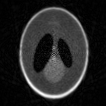
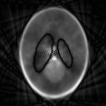
Ready for server experiments

diff --git a/scripts/MAP2D_simple.m b/scripts/MAP2D_simple.m
@@ -9,16 +9,16 @@ P = imresize(P, 0.5);
 P = padarray(P, [3, 3], 0.0);
 
 % Constants.
-sigmaNoiseFraction = 0.05;
+sigmaNoiseFraction = 0.00;
 max_shift_amplitude = 0;
 filename = ...
-    '../results/bayesian_estimation/error_angles_and_shifts/server/5_percent_noise/';
+    '../results/bayesian_estimation/error_angles_and_shifts/local/5_percent_noise/';
 num_theta = 360;
-max_angle_err = 5;
-max_shift_err = 5;
+max_angle_err = 3;
+max_shift_err = 0;
 resolution_angle = 1;
 resolution_space = 1;
-no_of_iterations = 1;
+no_of_iterations = 2;
 mask=ones(size(P));
 n = size(P, 1);
 L_pad = 260; 
@@ -61,9 +61,9 @@ f_projections = fftshift(f_projections, 1); % put DC central after filtering
 % In the first case the angles and shifts will be unknown upto a 
 % certain limit.
 first_estimate_theta = mod(theta +...
-    randi([-max_angle_err + 4, max_angle_err - 4], 1, num_theta), 180);
+    randi([-max_angle_err + 2, max_angle_err - 2], 1, num_theta), 180);
 first_estimate_shifts = original_shifts +...
-    randi([-max_shift_err + 4, max_shift_err - 4], 1, num_theta);
+    randi([-max_shift_err, max_shift_err], 1, num_theta);
 
 % Begin estimation of the first model.
 prob_matrix_height = (2*max_angle_err)/resolution_angle + 1;
@@ -74,7 +74,7 @@ prob_matrix = ...
 
 % Start estimating the image.
 fourier_radial = zeros(625, 625);
-parfor i=1:size(prob_matrix, 1)
+for i=1:size(prob_matrix, 1)
     for j=1:size(prob_matrix, 2)
         probabilities = squeeze(prob_matrix(i, j, :))';
         prob_f_proj = bsxfun(@mtimes, f_projections, probabilities);
@@ -121,10 +121,10 @@ parfor k=1:num_theta
 end
 noise_estimate = sqrt(noise_estimate);
 noise_estimate = mean(noise_estimate(:));
-noise_estimate = repmat(noise_estimate, size(f_projections, 1), 1);
+noise_estimate = repmat(1, size(f_projections, 1), 1);
 
 % Calculate the variance of the prior gaussian distribution.
-prior_variance = 20*abs(f_image_estimate).^2;
+prior_variance = 2*abs(f_image_estimate).^2;
 prior_variance = mean(prior_variance(:));
 
 first_orientation = Orientation(first_estimate_theta, first_estimate_shifts);
@@ -198,11 +198,11 @@ for q=1:no_of_iterations
     recons_f_denom_weighted = ...
         weights./cconv((recons_f_denom_prior.*weights), w, size(f_image_estimate, 1));
     reconstructed_f_image = ...
-        reconstructed_f_numerator.*recons_f_denom_weighted*5e3;
+        reconstructed_f_numerator;
+%     reconstructed_f_image = ...
+%         reconstructed_f_image*norm(fourier_radial)/norm(reconstructed_f_image);
     reconstructed_f_image = ...
-        reconstructed_f_image*norm(fourier_radial)/norm(reconstructed_f_image);
-    reconstructed_f_image = ...
-        reshape(reconstructed_f_image, [output_size, output_size]);
+        reshape(reconstructed_f_numerator, [output_size, output_size]);
 
     % Construct the image for this iteration.
     reconstructed_image = Ifft2_2_Img(reconstructed_f_image, L_pad);
@@ -229,14 +229,14 @@ for q=1:no_of_iterations
     end
     estimated_noise_vector = sqrt(estimated_noise_vector);
     noise_estimate = mean(estimated_noise_vector(:));
-    noise_estimate = repmat(noise_estimate, size(f_projections, 1), 1);
+    noise_estimate = repmat(1, size(f_projections, 1), 1);
 
     f_image_estimate = reconstructed_f_image(:);
     theta_estimate = correct_theta;
     shift_estimate = correct_shift;
 
     % Calculate the variance of the prior gaussian distribution.
-    prior_variance = 20*abs(f_image_estimate).^2;
+    prior_variance = 2*abs(f_image_estimate).^2;
     prior_variance = mean(prior_variance(:));
 end
 

diff --git a/scripts/calc_prob_for_each_orientation.m b/scripts/calc_prob_for_each_orientation.m
@@ -28,8 +28,7 @@ function prob_matrix = calc_prob_for_each_orientation(f_image_estimate,...
 	    % The denominator of the posterior probability.
 	    d = denom_posterior_probability_orientation(f_proj,...
             f_image_estimate, estimated_orientation, first_orientation,...
-            projection_parameters, noise_estimate, prior_parameters,...
-            theta_estimate);
+            projection_parameters, noise_estimate, prior_parameters);
 
 	    if d ~= 0
 	        for i=-max_angle_err:resolution_angle:max_angle_err
@@ -43,11 +42,11 @@ function prob_matrix = calc_prob_for_each_orientation(f_image_estimate,...
 	                n = numer_posterior_probability_orientation(f_proj,...
                         f_image_estimate, estimated_orientation, first_orientation,...
                         given_orientation, projection_parameters,...
-                        noise_estimate, prior_parameters, theta_estimate);
+                        noise_estimate, prior_parameters);
 
-	                index_x = floor(i/resolution_angle + ...
+	                index_x = round(i/resolution_angle + ...
 	                	(max_angle_err + resolution_angle)/resolution_angle);
-	                index_y = floor(j/resolution_space + ...
+	                index_y = round(j/resolution_space + ...
 	                	(max_shift_err + resolution_space)/resolution_space);
 
 	                % Assign probability to the orientation.

diff --git a/scripts/denom_posterior_probability_orientation.m b/scripts/denom_posterior_probability_orientation.m
@@ -1,6 +1,6 @@
 function prob = denom_posterior_probability_orientation(f_proj, f_image,...
     estimated_orientation, first_orientation, projection_parameters,... 
-    sigmaNoise, prior_parameters, theta_estimate)
+    sigmaNoise, prior_parameters)
     
     
     max_angle_err = prior_parameters.max_angle_err;
@@ -15,7 +15,7 @@ function prob = denom_posterior_probability_orientation(f_proj, f_image,...
                 Orientation(estimated_orientation.theta + i,...
                 estimated_orientation.shift + j); 
             p_a = prob_of_proj_given_orientation_and_model(f_proj, f_image,...
-                given_orientation, sigmaNoise, projection_parameters, theta_estimate);
+                given_orientation, sigmaNoise, projection_parameters);
             p_b = prior_prob_orientation_given_model(first_orientation,...
                 given_orientation, max_angle_err, max_shift_err);
             p = p_b*p_a;

diff --git a/scripts/numer_posterior_probability_orientation.m b/scripts/numer_posterior_probability_orientation.m
@@ -1,12 +1,12 @@
 function numerator = numer_posterior_probability_orientation(f_proj, f_image,...
     estimated_orientation, first_orientation, given_orientation, projection_parameters,...
-    sigmaNoise, prior_parameters, theta_estimate)
+    sigmaNoise, prior_parameters)
     
     max_angle_err = prior_parameters.max_angle_err;
     max_shift_err = prior_parameters.max_shift_err;
     
     p_a = prob_of_proj_given_orientation_and_model(...
-        f_proj, f_image, given_orientation, sigmaNoise, projection_parameters, theta_estimate);
+        f_proj, f_image, given_orientation, sigmaNoise, projection_parameters);
     p_b = prior_prob_orientation_given_model(...
         first_orientation, given_orientation, max_angle_err, max_shift_err);
     numerator = p_a*p_b;

diff --git a/scripts/prob_of_proj_given_orientation_and_model.m b/scripts/prob_of_proj_given_orientation_and_model.m
@@ -1,5 +1,5 @@
 function prob = prob_of_proj_given_orientation_and_model(f_proj, f_image,...
-    orientation, sigmaNoise, projection_parameters, theta_estimate)
+    orientation, sigmaNoise, projection_parameters)
     projection_length = projection_parameters.projection_length;
     output_size = projection_parameters.output_size;
     f_image = reshape(f_image, [output_size, output_size]);

diff --git a/scripts/backproject_fourier_alternate.m b/scripts/backproject_fourier_alternate.m
@@ -64,5 +64,5 @@ function fourier_radial=backproject_fourier_alternate(f_p, prj_angles, shifts)
 		fourier_radial(index_non_nan)./count_matrix(index_non_nan);
 
 	fourier_radial(fourier_radial == 0) = NaN;
-	fourier_radial = inpaint_nans(fourier_radial, 2);
+	fourier_radial = inpaint_nans(fourier_radial, 1);
 end
